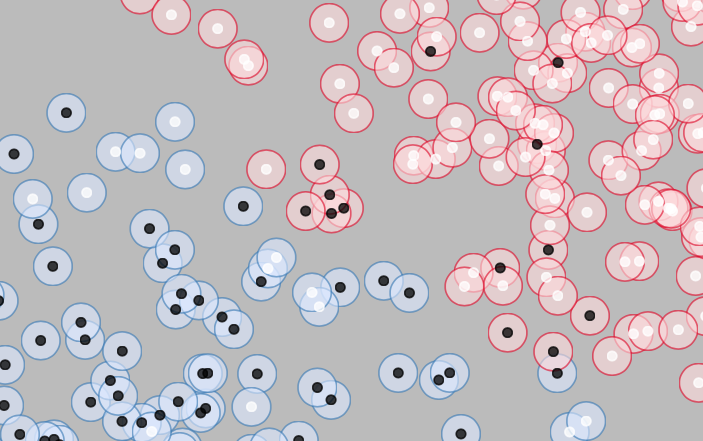
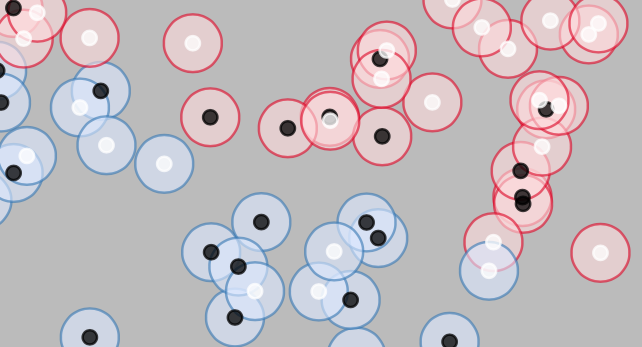
fixed example

diff --git a/example.py b/example.py
@@ -13,13 +13,11 @@ from math import sqrt
 
 
 def main():
-    n, d = 400, 2
+    n, d = 300, 2
 
     # generate some data points ..
     data = torch.Tensor(n, d).normal_()
-    # .. as well as a random partition that ..
-    ids = np.random.choice(n, n//2, replace=False)
-    # .. is permuted to come from a non-standard Gaussian N(7, 16)
+    # .. and shift them around to non-standard Gaussians
     data[:n//2] -= 1
     data[:n//2] *= sqrt(3)
     data[n//2:] += 1
@@ -29,25 +27,40 @@ def main():
     n_components = 2
     model = GaussianMixture(n_components, d)
     model.fit(data)
-    # .. used to predict the data points that where shifted
+    # .. used to predict the data points as they where shifted
     y = model.predict(data)
-    c = np.isin(np.where(y > 0), ids)
+
+    plot(data, y)
+
+
+def plot(data, y):
+    n = y.shape[0]
 
     fig, ax = plt.subplots(1, 1, figsize=(1.61803398875*4, 4))
     ax.set_facecolor('#bbbbbb')
     ax.set_xlabel("Dimension 1")
     ax.set_ylabel("Dimension 2")
+
     # plot the locations of all data points ..
-    ax.scatter(*data[:n//2].data.t(), color="#000000", s=3, alpha=.75, label="Ground-truth 1")
-    ax.scatter(*data[n//2:].data.t(), color="#ffffff", s=3, alpha=.75, label="Ground-truth 2")
+    for i, point in enumerate(data.data):
+        if i <= n//2:
+            # .. separating by ground truth ..
+            ax.scatter(*point, color="#000000", s=3, alpha=.75, zorder=n+i)
+        else:
+            ax.scatter(*point, color="#ffffff", s=3, alpha=.75, zorder=n+i)
 
-    # .. and circle them according to their classification
-    ax.scatter(*data[np.where(y == 0)].data.t(), zorder=0, color="#dbe9ff", alpha=.6, edgecolors=colors[1], label="Predicted 1")
-    ax.scatter(*data[np.where(y == 1)].data.t(), zorder=0, color="#ffdbdb", alpha=.6, edgecolors=colors[5], label="Predicted 2")
+        if y[i] == 0:
+            # .. as well as predicted classes
+            ax.scatter(*point, zorder=i, color="#dbe9ff", alpha=.6, edgecolors=colors[1])
+        else:
+            ax.scatter(*point, zorder=i, color="#ffdbdb", alpha=.6, edgecolors=colors[5])
 
-    ax.legend(loc="best")
+    handels = [plt.Line2D([0], [0], color='w', lw=4, label='Ground Truth 1'), plt.Line2D([0], [0], color='black', lw=4, label='Ground Truth 2'), plt.Line2D([0], [0], color=colors[1], lw=4, label='Predicted 1'), plt.Line2D([0], [0], color=colors[5], lw=4, label='Predicted 2')]
+    legend = ax.legend(loc="best", handles=handels)
+
     plt.tight_layout()
     plt.savefig("example.pdf")
+
 
 if __name__ == "__main__":
     main()
